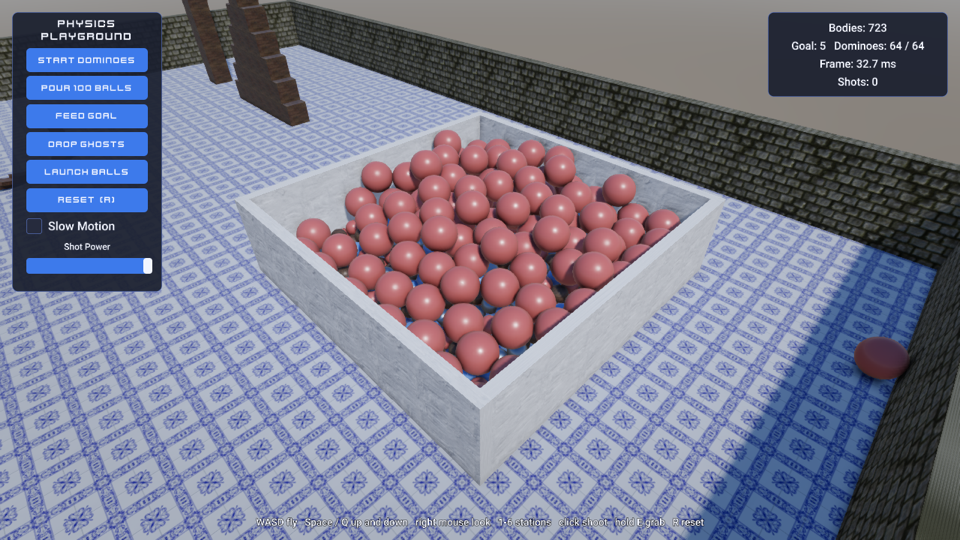
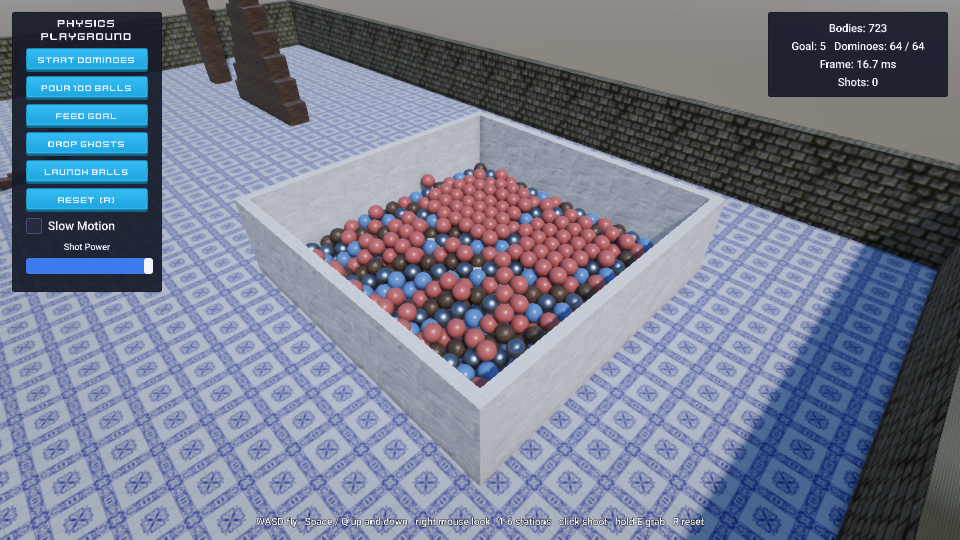
Spawn the Physics Playground's balls at the prefab's scale
The pour, the goal's feed, the launch pad and shots instantiated the ball
prefab with a translation only, so each instance's root got scale 1 instead
of the prefab's 0.5: balls of 1 m spaced 0.6 m apart, overlapping by 0.4 m.
Jolt separated them gently; box3d pushes overlapping bodies apart at up to
3 m/s (its contactSpeed), so on box3d a pour threw about 40 of its 100 balls
over the pit's walls (558 of 600 in the pit) and the goal caught 4 of 5.
Every spawn now passes the prefab's scale; a pour keeps all 600 balls in the
pit and the goal catches 5 of 5, as under Jolt.

The regression pours after the second domino run and expects 715 bodies,
600 balls in the pit and none escaped (it fails without the fix: 560). The
README's spawning row says the scale is passed, the screenshots show the
pour as it is now, and the scripting skill tells authors that overlapping
bodies are pushed apart at up to 3 m/s and that an instance's root takes
the scale it is given.

Claude-Session: https://claude.ai/code/session_011Fkij8BXid9xqtVd6DHtXH

diff --git a/Samples/PhysicsPlayground/Scripts/Playground.cpp b/Samples/PhysicsPlayground/Scripts/Playground.cpp
@@ -13,6 +13,11 @@ namespace
 	// The playground's dynamic bodies, by tag.
 	constexpr const char* c_BodyTags[] = { "Crate", "Domino", "Ball", "Ghost", "Pin" };
 
+	// The ball prefab's scale (a sphere collider of radius 0.5 at half size: 0.25 m). An instance's root gets the scale it
+	// is spawned with instead of the prefab's, so every spawn passes it: at scale 1 the balls of a pour, 0.6 m apart, would
+	// start overlapping, and the physics would throw them apart (over the pit's walls).
+	constexpr float c_BallScale = 0.5f;
+
 	int32_t CountBodies()
 	{
 		int32_t count = 0;
@@ -205,7 +210,7 @@ void Playground::Shoot(const glm::vec3& origin, const glm::vec3& direction)
 {
 	if (!Assets::IsLoaded(BallPrefab))
 		return; // Still loading: requested in OnCreate
-	Entity ball = Scene::Instantiate(BallPrefab, origin + direction * 1.5f);
+	Entity ball = Scene::Instantiate(BallPrefab, origin + direction * 1.5f, glm::quat(1.0f, 0.0f, 0.0f, 0.0f), glm::vec3(c_BallScale));
 	if (!ball.IsValid())
 		return;
 	Shots++;
@@ -264,7 +269,7 @@ void Playground::SpawnBalls(const glm::vec3& center, float spread, int32_t count
 		const int32_t cell = index % (perRow * perRow);
 		const glm::vec3 position = center + glm::vec3(-spread + 0.3f + static_cast<float>(cell % perRow) * 0.6f + random.Range(-0.04f, 0.04f),
 			static_cast<float>(layer) * 0.6f, -spread + 0.3f + static_cast<float>(cell / perRow) * 0.6f + random.Range(-0.04f, 0.04f));
-		transforms.push_back(glm::translate(glm::mat4(1.0f), position));
+		transforms.push_back(glm::scale(glm::translate(glm::mat4(1.0f), position), glm::vec3(c_BallScale)));
 	}
 	Scene::InstantiateMany(BallPrefab, transforms);
 }

diff --git a/Samples/PhysicsPlayground/README.md b/Samples/PhysicsPlayground/README.md
@@ -15,7 +15,7 @@ through the balls, and a ramp that sends balls into ten pins. An AI agent made i
 | Triggers and contacts: the goal's basket counts balls (`OnTriggerEnter`), the launch pad sends them down the ramp, impacts sound by material (`OnCollisionEnter`) | `Scripts/GoalBasket.cpp`, `LaunchPad.cpp`, `Impact.cpp` |
 | Collision layers: the Ghost layer does not collide with the Ball layer (the scene's layer matrix) | Scene settings, the Ghost prefab |
 | Raycasts and impulses: shoot a ball through the cursor, grab a body and pull it | `Scripts/Playground.cpp` (`Shoot`, `UpdateGrab`) |
-| Spawning many at once: a pour of 100 balls in one `Scene::InstantiateMany` call | `Playground::SpawnBalls` |
+| Spawning many at once: a pour of 100 balls in one `Scene::InstantiateMany` call, at the ball prefab's scale (an instance's root takes the scale it is given) | `Playground::SpawnBalls` |
 | GPU-driven rendering: hundreds of instanced bodies with shadows; PBR materials from ambientCG | `Materials/`, `Textures/` |
 | Game UI: a tool panel of buttons drawn with sliced images (Kenney UI Pack: corners kept, edges and middle stretched), a slow-motion toggle (`Time::SetTimeScale`), a shot-power slider and a HUD ([Game UI](https://github.com/2042Third/GameEngine/blob/main/Docs/Manual/GameUI.md)) | `UI` in the scene, `Assets/UI/` |
 | Audio: one-shots heard where bodies meet, louder the harder they hit, within a budget of voices | `Scripts/Impact.cpp` |

diff --git a/.claude/skills/strata-scripting/SKILL.md b/.claude/skills/strata-scripting/SKILL.md
@@ -197,7 +197,9 @@ std::vector<Entity> nearby = Physics::OverlapSphere(center, 3.0f);
   Bodies bounce (`Restitution`) only when they hit faster than 1 m/s; damping multiplies the velocity by
   `1 / (1 + damping * h)` in every sub-step `h` (a quarter of the fixed step per collision step), which keeps a little more
   of it than Jolt's `1 - damping * dt` per fixed step: bodies damp slightly less (a damping of 2 leaves 0.55 of the speed
-  after a second, not 0.52). A box landing flat may slide a few millimeters.
+  after a second, not 0.52). A box landing flat may slide a few millimeters. Bodies that start overlapping are pushed
+  apart at up to 3 m/s, enough to throw light ones over a wall: spawn them apart, remembering that an instance's root
+  gets the scale given to `Instantiate`/`InstantiateMany` (1 by default), not its prefab's.
 - Moving a body by writing its transform works too (kinematic platforms, editor-like placement) but takes effect at the
   next fixed step; `Teleport` is immediate. Results always name the entity that owns the body (the RigidBody entity,
   also for colliders on its children).
